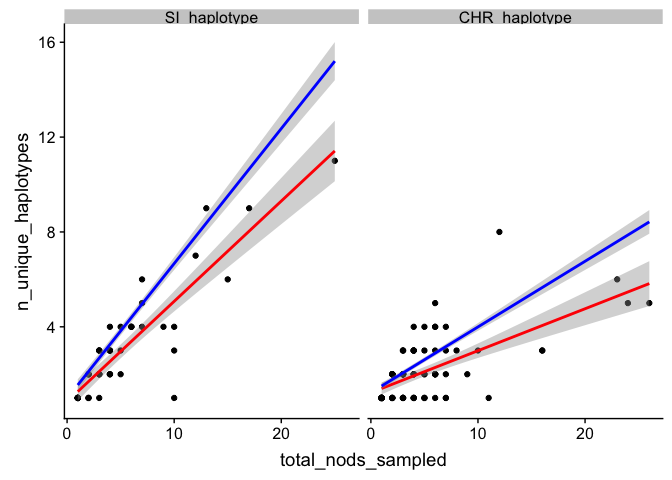
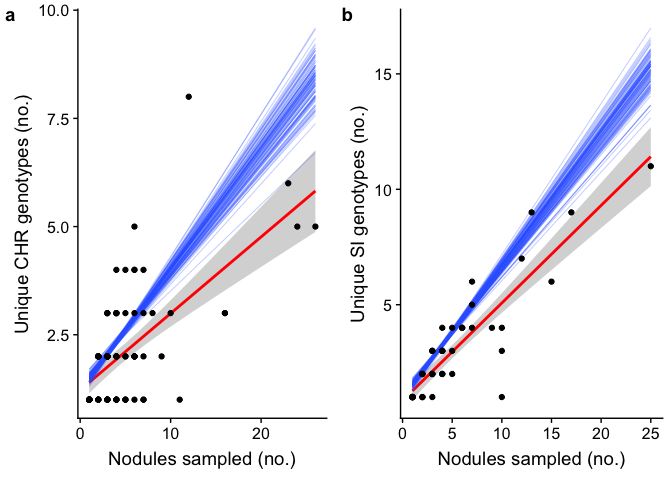
Commit from RStudio

Changed region(s): [[0.0, 0.0, 1.0, 1.0], [0.0, 0.0312, 0.0312, 0.0625]]

diff --git a/README.md b/README.md
@@ -1,7 +1,7 @@
 Are rhizobia under selection to cheat?
 ================
 Megan Frederickson
-2019-04-30
+2019-05-01
 
 Is there fitness conflict between legumes and rhizobia?
 -------------------------------------------------------
@@ -538,18 +538,18 @@ summary(model9) #Non-significant
     ## 
     ## Residuals:
     ##      Min       1Q   Median       3Q      Max 
-    ## -0.14423 -0.06916 -0.04308  0.00907  0.38774 
+    ## -0.14480 -0.06838 -0.03840  0.00813  0.38440 
     ## 
     ## Coefficients:
-    ##                Estimate Std. Error t value Pr(>|t|)  
-    ## (Intercept)      0.3205     0.1167   2.746   0.0113 *
-    ## mean_log10_RGR  -0.2070     0.1298  -1.594   0.1239  
+    ##                Estimate Std. Error t value Pr(>|t|)   
+    ## (Intercept)      0.3269     0.1164   2.809  0.00972 **
+    ## mean_log10_RGR  -0.2160     0.1295  -1.669  0.10814   
     ## ---
     ## Signif. codes:  0 '***' 0.001 '**' 0.01 '*' 0.05 '.' 0.1 ' ' 1
     ## 
-    ## Residual standard error: 0.1403 on 24 degrees of freedom
-    ## Multiple R-squared:  0.09579,    Adjusted R-squared:  0.05811 
-    ## F-statistic: 2.542 on 1 and 24 DF,  p-value: 0.1239
+    ## Residual standard error: 0.1399 on 24 degrees of freedom
+    ## Multiple R-squared:  0.104,  Adjusted R-squared:  0.06664 
+    ## F-statistic: 2.785 on 1 and 24 DF,  p-value: 0.1081
 
 ``` r
 #Fit model for mean SI genotype frequency from re-sampling and RGR
@@ -563,18 +563,18 @@ summary(model10) #Non-significant
     ## 
     ## Residuals:
     ##      Min       1Q   Median       3Q      Max 
-    ## -0.18979 -0.10120 -0.02837  0.05239  0.26899 
+    ## -0.18483 -0.09245 -0.03852  0.08170  0.26841 
     ## 
     ## Coefficients:
     ##                Estimate Std. Error t value Pr(>|t|)  
-    ## (Intercept)     0.29713    0.13645   2.178   0.0416 *
-    ## mean_log10_RGR -0.06487    0.14925  -0.435   0.6685  
+    ## (Intercept)     0.28332    0.13439   2.108   0.0478 *
+    ## mean_log10_RGR -0.05076    0.14699  -0.345   0.7335  
     ## ---
     ## Signif. codes:  0 '***' 0.001 '**' 0.01 '*' 0.05 '.' 0.1 ' ' 1
     ## 
-    ## Residual standard error: 0.1593 on 20 degrees of freedom
-    ## Multiple R-squared:  0.009358,   Adjusted R-squared:  -0.04017 
-    ## F-statistic: 0.1889 on 1 and 20 DF,  p-value: 0.6685
+    ## Residual standard error: 0.1569 on 20 degrees of freedom
+    ## Multiple R-squared:  0.005926,   Adjusted R-squared:  -0.04378 
+    ## F-statistic: 0.1192 on 1 and 20 DF,  p-value: 0.7335
 
 ``` r
 #Make figures
@@ -597,7 +597,7 @@ save_plot("Fig2.png", full.new.Fig5, base_width=8, base_height=8)
 Is the number of nodules sampled per population negatively correlated with genotype frequency?
 ----------------------------------------------------------------------------------------------
 
-Yes, for SI genotype frequency. Not significantly so, for CHR genotype frequency.
+Above, I used the number of plants sampled as a measure of sampling effort. Multiple nodules were sampled per plant, so could each nodule be considered a sample? First, we need to know whether the number of nodules sampled per population is correlated with genotype frequency. The answer is yes, for SI genotype frequency. There is a significant negative correlation between SI genotype frequency and the number of nodules sampled. But the same is not true for CHR genotype frequency. The direction is still negative, but the correlation between CHR genotype frequency and number of nodules sampled is non-significant.
 
 ``` r
 #Model relationship between SI frequency and number of nodules sampled
@@ -672,13 +672,15 @@ fig.nods #Show figure
 ![](README_files/figure-markdown_github/Nodules%20as%20samples-1.png)
 
 Are nodules independent samples?
-================================
+--------------------------------
+
+Are multiple nodules on the same plant independent samples of the rhizobia present in a population?
 
 ``` r
 #Real data
 real.data <- table_S1.long %>% group_by(Population, locus, Plant_ID) %>% summarize(total_nods_sampled=n(), n_unique_haplotypes = length(unique(haplotype)))
 
-#Randomize plants within population 
+#Randomize plants within each population 
 random.table_S1 <- data.frame(Full_Strain_Name = character(), Plant_ID = character(), Year=integer(), Population=character(), locus=character(), haplotype=character(), permutation=integer(), stringsAsFactors = FALSE)
 
 for(j in 1:100) {
@@ -688,69 +690,34 @@ for(i in 1:6) {
   random$haplotype <- sample(random$haplotype, replace=FALSE)
   random$permutation <- j
   random.table_S1 <- rbind(random.table_S1, random)
-}
+  }
 
 for(i in 1:6) {
   random <- table_S1.long[which(table_S1.long$locus == "CHR_haplotype" & table_S1.long$Population == pop[i]), ] 
   random$haplotype <- sample(random$haplotype, replace=FALSE)
   random$permutation <- j
   random.table_S1 <- rbind(random.table_S1, random)
-  
-}
-
+  }
 }
 
 random.data <- random.table_S1 %>% group_by(Population, locus, Plant_ID, permutation) %>% summarize(total_nods_sampled=n(), n_unique_haplotypes = length(unique(haplotype)))
 
-random.data <- random.data %>% group_by(Population, locus, Plant_ID) %>% summarize(total_nods_sampled=mean(total_nods_sampled), mean_n_unique_haplotypes = mean(n_unique_haplotypes))
+#random.data <- random.data %>% group_by(Population, locus, Plant_ID) %>% summarize(total_nods_sampled=mean(total_nods_sampled), mean_n_unique_haplotypes = mean(n_unique_haplotypes))
 
-plot <- ggplot()+
-        geom_point(data=real.data, aes(x=total_nods_sampled, y=n_unique_haplotypes))+
-        geom_smooth(data=real.data, aes(x=total_nods_sampled, y=n_unique_haplotypes), method="lm", color="red")+
-        geom_smooth(data=random.data, aes(x=total_nods_sampled, y=mean_n_unique_haplotypes), method="lm", color="blue")+
-        facet_wrap(~locus)
-plot
+SI.nods.sampling <- ggplot()+geom_smooth(data=subset(real.data, locus == "SI_haplotype"), aes(x=total_nods_sampled, y=n_unique_haplotypes), method="lm", color="red")+
+  geom_smooth(data=subset(random.data, locus == "SI_haplotype"), aes(x=total_nods_sampled, y=n_unique_haplotypes, fill=as.factor(permutation)), method="lm", se=FALSE, size=0.1)+
+  ylab("Unique SI genotypes (no.)")+xlab("Nodules sampled (no.)")+
+  guides(fill=FALSE)+
+  geom_point(data=subset(real.data, locus == "SI_haplotype"), aes(x=total_nods_sampled, y=n_unique_haplotypes))
+
+CHR.nods.sampling <- ggplot()+geom_smooth(data=subset(real.data, locus == "CHR_haplotype"), aes(x=total_nods_sampled, y=n_unique_haplotypes), method="lm", color="red")+
+  geom_smooth(data=subset(random.data, locus == "CHR_haplotype"), aes(x=total_nods_sampled, y=n_unique_haplotypes, fill=as.factor(permutation)), method="lm", se=FALSE,  size=0.1)+
+  ylab("Unique CHR genotypes (no.)")+xlab("Nodules sampled (no.)")+
+  guides(fill=FALSE)+
+  geom_point(data=subset(real.data, locus == "CHR_haplotype"), aes(x=total_nods_sampled, y=n_unique_haplotypes))
+
+fig.nods.sampling <- plot_grid(CHR.nods.sampling, SI.nods.sampling, labels="auto") 
+fig.nods.sampling
 ```
 
 ![](README_files/figure-markdown_github/unnamed-chunk-1-1.png)
-
-Are nodules independent within plants?
---------------------------------------
-
-I re-calculated haplotype frequencies within each plant, and compare them to haplotype frequencies in the population in general.
-
-``` r
-library(diptest) #For testing modality in distributions
-
-#Calculate frequency of each genotype within each plant
-per_plant <- table_S1.long %>% group_by(Population, locus, Plant_ID) %>% summarize(total_plant_nodules=n())
-per_haplotype <- table_S1.long %>% group_by(Population, locus, Plant_ID, haplotype) %>% summarize(nodules=n())
-df.SI.freq <- merge(subset(per_plant, locus == "SI_haplotype"), subset(per_haplotype, locus=="SI_haplotype"), by="Plant_ID")
-df.SI.freq <- df.SI.freq[ , c(2,1,7,8,4)]
-colnames(df.SI.freq) <- c("Population", "Plant_ID", "SI_haplotype", "Nodules", "Total_plant_nodules")
-df.CHR.freq <- merge(subset(per_plant, locus == "CHR_haplotype"), subset(per_haplotype, locus=="CHR_haplotype"), by="Plant_ID")
-df.CHR.freq <- df.CHR.freq[ , c(2,1,7,8,4)]
-colnames(df.CHR.freq) <- c("Population", "Plant_ID", "CHR_haplotype", "Nodules", "Total_plant_nodules")
-df.SI.freq$Per_plant_frequency <- df.SI.freq$Nodules/df.SI.freq$Total_plant_nodules
-df.CHR.freq$Per_plant_frequency <- df.CHR.freq$Nodules/df.CHR.freq$Total_plant_nodules
-
-dip.test(df.SI.freq$Per_plant_frequency) #Significantly non-unimodal
-```
-
-    ## 
-    ##  Hartigans' dip test for unimodality / multimodality
-    ## 
-    ## data:  df.SI.freq$Per_plant_frequency
-    ## D = 0.059603, p-value = 0.0003859
-    ## alternative hypothesis: non-unimodal, i.e., at least bimodal
-
-``` r
-dip.test(df.CHR.freq$Per_plant_frequency) #Significantly non-uni-modal
-```
-
-    ## 
-    ##  Hartigans' dip test for unimodality / multimodality
-    ## 
-    ## data:  df.CHR.freq$Per_plant_frequency
-    ## D = 0.09949, p-value < 2.2e-16
-    ## alternative hypothesis: non-unimodal, i.e., at least bimodal
